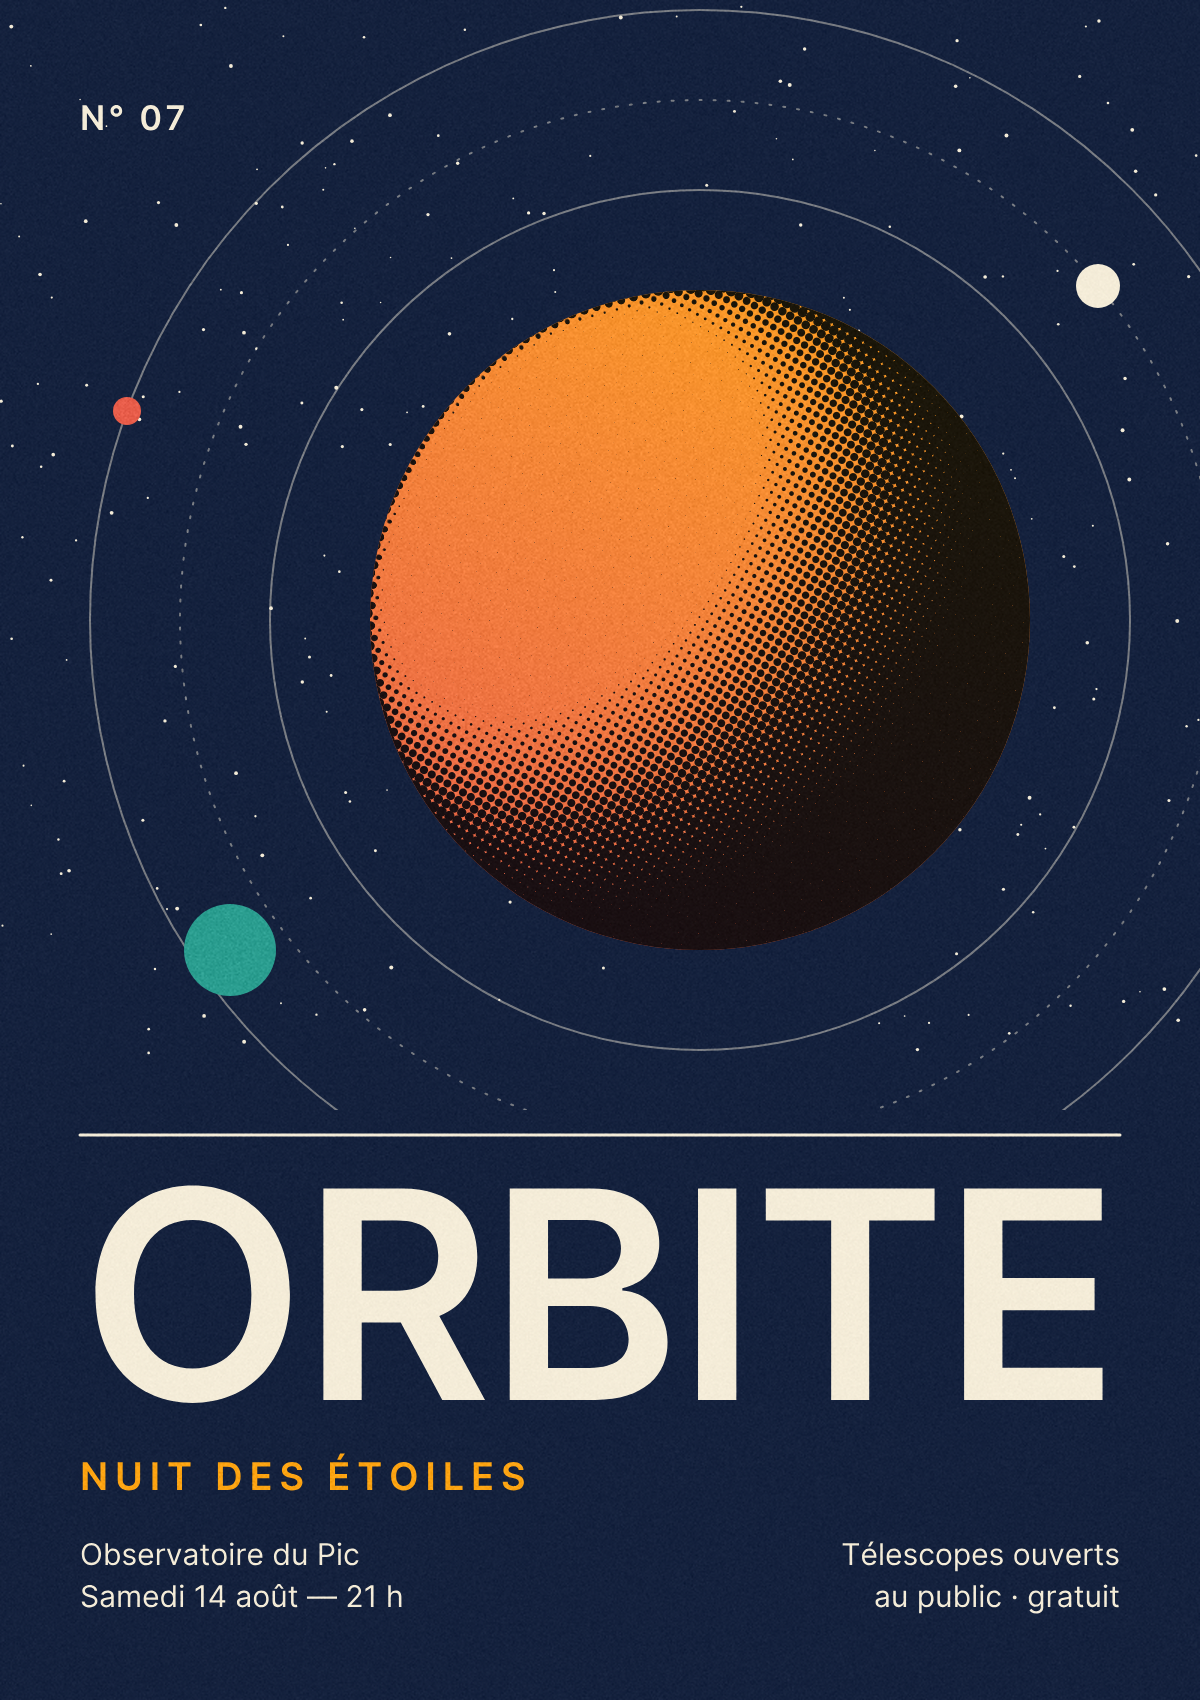
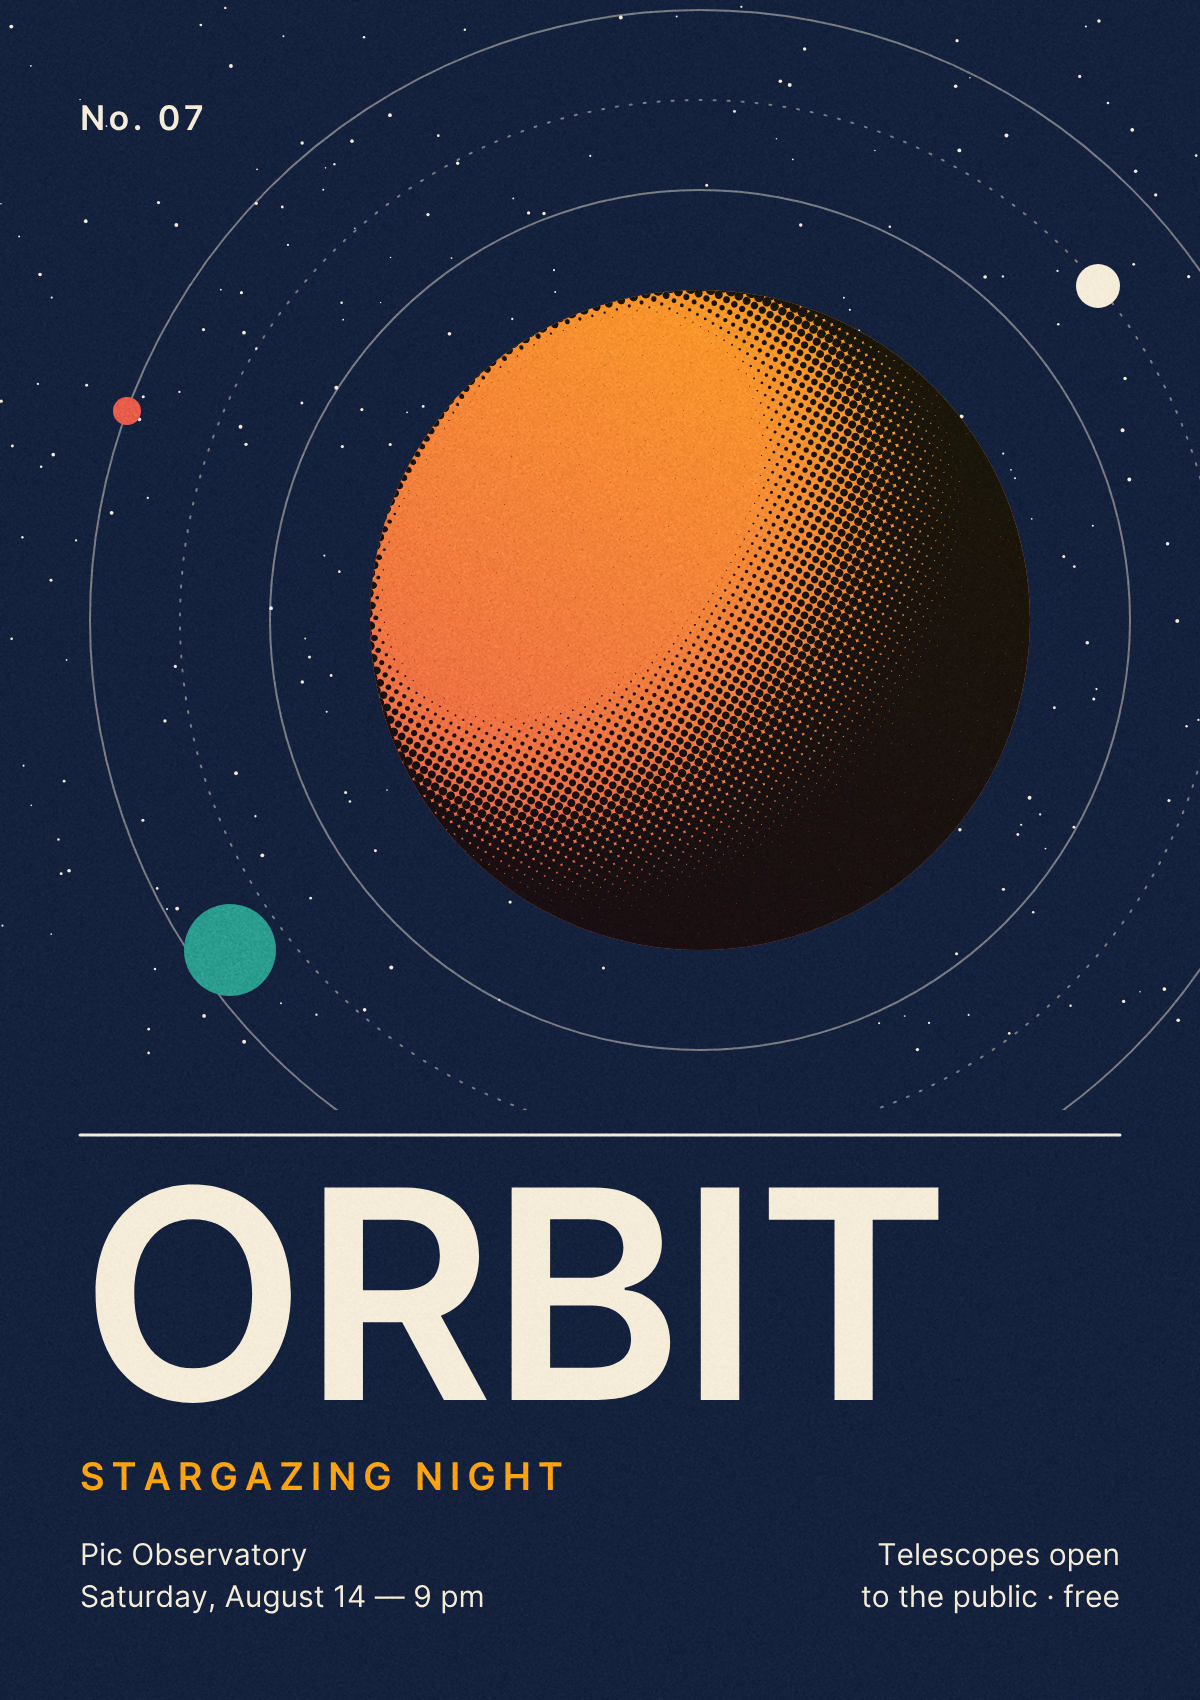
Add repo rules (CLAUDE.md), English-only examples, single-source version
- CLAUDE.md: language, versioning, SKILL.md sync, code and test rules
- Translate the example and demo posters to English; re-render poster and gallery
- examples/make_gallery.py rebuilds the README banner
- pyproject reads the version from atelier.__version__
- README: how to update the package and the skill

diff --git a/examples/poster.py b/examples/poster.py
@@ -28,10 +28,10 @@ c.circle(cx + 398, cy - 334, 22, fill=cream)
 c.circle(cx - 573, cy - 209, 14, fill=coral)
 
 c.line(80, 1135, W - 80, 1135, stroke=cream, width=3)
-c.text("ORBITE", 80, 1400, fit=W - 160, weight="bold", fill=cream, spacing=-0.01)
-c.text("NUIT DES ÉTOILES", 80, 1490, 38, weight="semibold", fill=gold, spacing=0.18)
-c.text("Observatoire du Pic\nSamedi 14 août — 21 h", 80, 1565, 30, fill=cream, line_height=1.4)
-c.text("Télescopes ouverts\nau public · gratuit", W - 80, 1565, 30, fill=cream, align="right", line_height=1.4)
-c.text("N° 07", 80, 130, 34, weight="semibold", fill=cream, spacing=0.1)
+c.text("ORBIT", 80, 1400, fit=W - 330, weight="bold", fill=cream, spacing=-0.01)
+c.text("STARGAZING NIGHT", 80, 1490, 38, weight="semibold", fill=gold, spacing=0.18)
+c.text("Pic Observatory\nSaturday, August 14 — 9 pm", 80, 1565, 30, fill=cream, line_height=1.4)
+c.text("Telescopes open\nto the public · free", W - 80, 1565, 30, fill=cream, align="right", line_height=1.4)
+c.text("No. 07", 80, 130, 34, weight="semibold", fill=cream, spacing=0.1)
 c.apply(grain(0.02, 1.5, seed=SEED))
 c.save(__file__[:-3] + ".png")

diff --git a/demos/03_vector.py b/demos/03_vector.py
@@ -20,10 +20,10 @@ c.text("2026", 110, 190, 72, fill=ink, weight="bold")
 
 c.text("SOLSTICE", W / 2, 1190, fit=W - 120, weight="bold", align="center", fill=ink)
 c.line(60, 1225, W - 60, 1225, stroke=ink, width=3, dash=(1, 9))
-c.text("FESTIVAL DE MUSIQUE", 60, 1290, 30, fill=ink, weight="semibold", spacing=0.12)
-c.text("21 — 23 JUIN", W - 60, 1290, 30, fill=sun, weight="semibold", spacing=0.12, align="right")
-c.text("Plage du Prado, Marseille", 60, 1335, 26, fill=ink)
-c.text("entrée libre", W - 60, 1335, 26, fill=ink, align="right", italic=True)
+c.text("MUSIC FESTIVAL", 60, 1290, 30, fill=ink, weight="semibold", spacing=0.12)
+c.text("JUNE 21 — 23", W - 60, 1290, 30, fill=sun, weight="semibold", spacing=0.12, align="right")
+c.text("Prado Beach, Marseille", 60, 1335, 26, fill=ink)
+c.text("free entry", W - 60, 1335, 26, fill=ink, align="right", italic=True)
 
 c.save("demos/out/03_vector.png")
 c.preview("demos/out/03_vector_prev.jpg", 640)

diff --git a/examples/make_gallery.py b/examples/make_gallery.py
@@ -1,0 +1,17 @@
+# Build examples/gallery.jpg (README banner) from the five example renders.
+import os
+from atelier import *
+
+here = os.path.dirname(os.path.abspath(__file__))
+g = Canvas(1800, 1080, bg="#111111")
+items = [("still_life", 20, 20, 1000, 667), ("landscape", 1040, 20, 740, 493), ("poster", 1040, 533, 370, 527),
+         ("pixel", 1430, 533, 350, 197), ("abstract", 20, 707, 1000, 353)]
+for name, x, y, w, h in items:
+    img = load(os.path.join(here, f"{name}.png"))
+    ih, iw = img.shape[:2]
+    tile = Canvas(w, h)
+    tile.place(img, w / 2, h / 2, scale=max(w / iw, h / ih), layer=tile.cur)    # cover-fit crop
+    g.place(tile.flatten(), x + w / 2, y + h / 2, scale=1, layer=g.cur)
+g.text("atelier", 1605, 790, 46, fill="#eeeeee", weight="bold", align="center")
+g.text("5 images, 0 generative AI", 1605, 840, 20, fill="#aaaaaa", align="center")
+g.save(os.path.join(here, "gallery.jpg"), quality=88)

diff --git a/CLAUDE.md b/CLAUDE.md
@@ -1,0 +1,41 @@
+# Rules for this repository
+
+Applies to every contributor, human or AI (Claude Code loads this file automatically).
+
+## Language
+- **English only** in the repo: code, comments, docstrings, docs, commit messages, CLI output, error messages,
+  and any text rendered into example or demo images. Conversations with the maintainer can be in any language.
+
+## Versioning
+- The version lives in one place: `__version__` in `atelier/__init__.py` (`pyproject.toml` reads it).
+- Bump it for every change pushed to `main` that touches the `atelier/` package or `SKILL.md`,
+  so `pip install -U git+https://github.com/Wexop/atelier` picks it up.
+  Semver: patch = fix, minor = new feature or API addition, major = breaking change.
+- Docs-only or example-only changes do not need a bump.
+
+## SKILL.md
+- `SKILL.md` is the cheat sheet an AI loads to use the tool: keep it **≤ 200 lines**, dense, accurate.
+- Any API change (new function, renamed parameter, new default) updates `SKILL.md` in the same commit.
+- `.claude/skills/atelier/SKILL.md` must stay identical to the root `SKILL.md`:
+  `cp SKILL.md .claude/skills/atelier/SKILL.md`.
+- The install line in `SKILL.md` and `README.md` stays `pip install git+https://github.com/Wexop/atelier`.
+
+## Code
+- Constraints, in priority order: token-economical API (short, composable, sensible defaults), fast preview loop,
+  deterministic (everything random takes `seed`), CPU only (must run on 2 cores), no mandatory external assets.
+- Flat functions, no plugin systems, config systems or needless abstract classes.
+- Dependencies: numpy, pillow, opencv-python-headless, scipy, skia-python. Anything else needs a written justification.
+- Export names must be unique across modules (`from atelier import *` merges them); check with
+  `python -c "import atelier, collections; print([k for k, v in collections.Counter(atelier.__all__).items() if v > 1])"`.
+- Slow imports (e.g. `scipy.interpolate`) go inside the function that needs them.
+
+## Tests & checks
+- `pytest` must pass before every commit; new features come with a test (known values, seed determinism, or a tiny render).
+- Visual changes are checked by looking at renders: `atelier render scene.py --preview`, then `--crop` on details.
+- Performance-sensitive changes: run `python bench.py` (2 threads) and keep finals under ~60 s.
+
+## Examples
+- `examples/*.py` save next to themselves (`c.save(__file__[:-3] + ".png")`) and are portfolio quality:
+  at least 3 look-and-fix iterations each.
+- After changing an example image, rebuild the banner: `python examples/make_gallery.py`.
+- Do not commit previews, crops or other intermediates (`*_prev.jpg`, `*_crop.jpg`, `demos/out/`).

diff --git a/README.md b/README.md
@@ -39,6 +39,10 @@ For a single project, put it in `.claude/skills/atelier/SKILL.md` instead (this 
 **Claude.ai / Claude desktop:** download `SKILL.md`, put it in a folder named `atelier`, zip the folder and upload it in
 *Settings → Capabilities → Skills*. The skill installs the package itself with the `pip install` line above.
 
+**Updating:** nothing updates automatically. Package: `pip install -U git+https://github.com/Wexop/atelier`
+(the version is bumped on every package change). Skill: re-run the `curl` / `Invoke-WebRequest` line above,
+or re-upload the zip on Claude.ai.
+
 ## Quick start
 
 ```python
@@ -80,6 +84,8 @@ pip install -e ".[test]"
 pytest
 python bench.py        # preview / final timings of the demo scenes
 ```
+
+Contribution rules (language, versioning, SKILL.md sync, tests) are in [CLAUDE.md](CLAUDE.md).
 
 Fonts in `atelier/fonts` are distributed under the SIL Open Font License (see `atelier/fonts/LICENSE.md`).
 Code: MIT.
